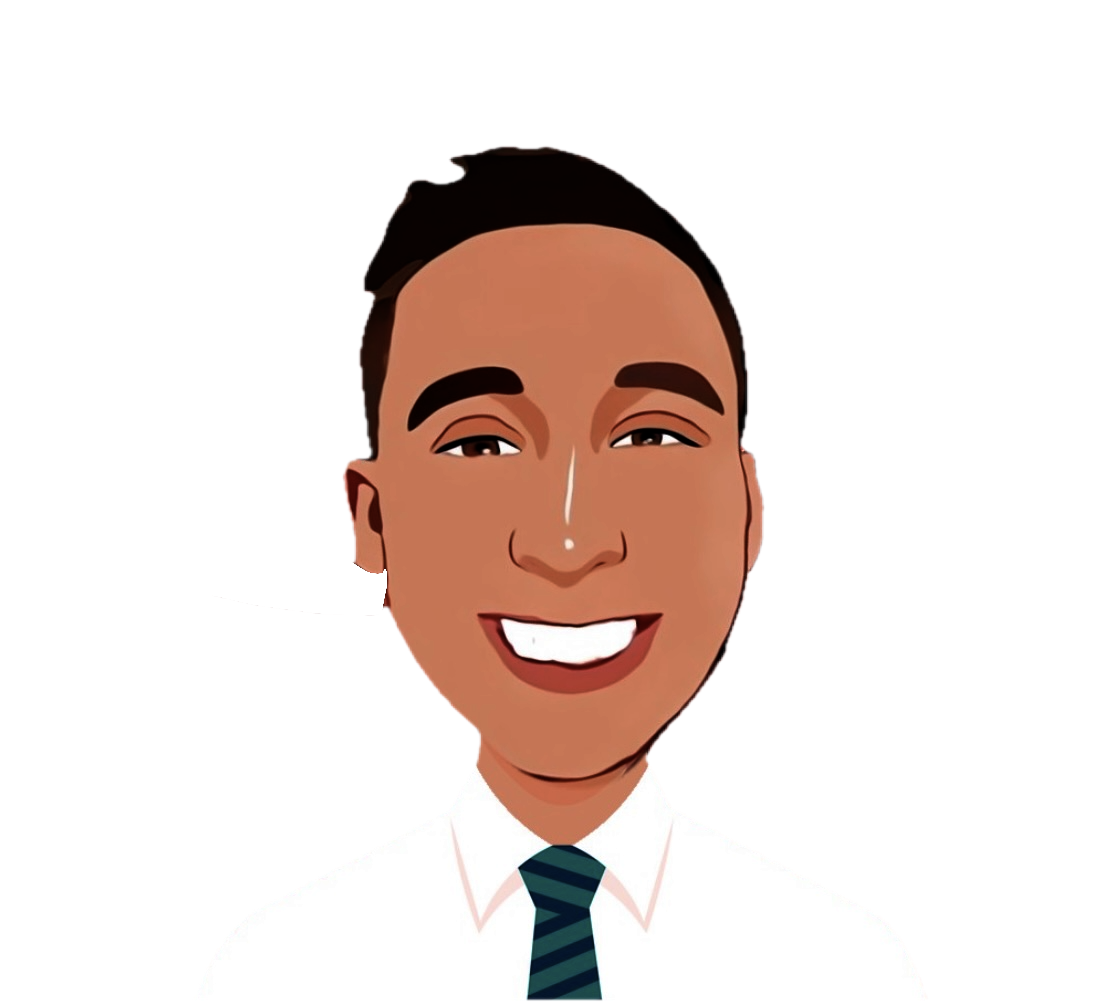
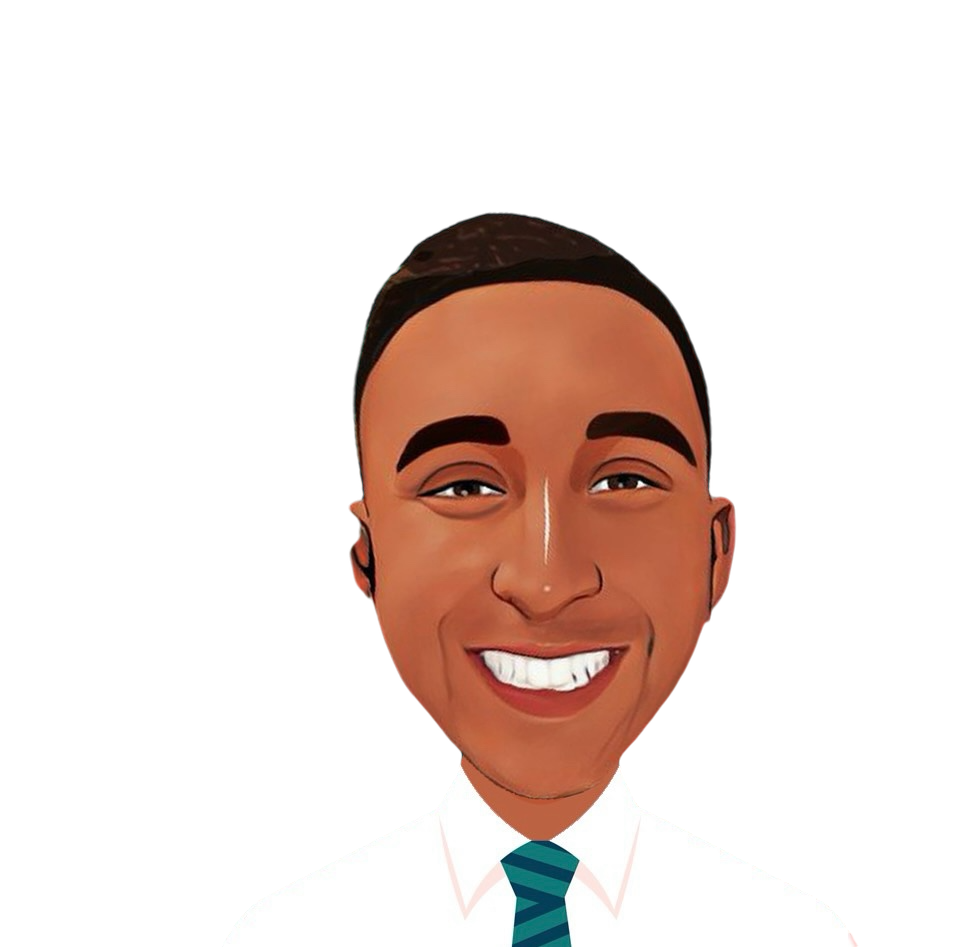
css update and about page

Changed region(s): [[0.3037, 0.1225, 0.7895, 1.0], [0.3948, 0.8268, 0.4251, 0.8881]]

diff --git a/assets/css/style.css b/assets/css/style.css
@@ -700,6 +700,13 @@ section {
   font-weight: 600;
   line-height: 1.2;
 }
+.cv_about_img img {
+  width: 90%;
+  max-width: 400px;
+  height: auto;
+  display: block;
+  margin: 0 auto;
+}
 
 .cv_about_info {
   max-width: 934px;
@@ -752,6 +759,27 @@ section {
   border: 1px solid #ff4343;
 }
 
+.cv_about_img {
+  opacity: 0;
+  transform: translateY(500px);
+  transition: opacity 2.5s ease, transform 2.5s ease;
+}
+
+.cv_about_img.appear {
+  opacity: 1;
+  transform: translateY(0);
+}
+
+.cv_about_box {
+  opacity: 0;
+  transform: translateY(50px);
+  transition: opacity 2.5s ease, transform 2.5s ease;
+}
+
+.cv_about_box.appear {
+  opacity: 1;
+  transform: translateY(0);
+}
 /********************************************************
     Education Section Style
 *******************************************************/

diff --git a/assets/js/custom.js b/assets/js/custom.js
@@ -133,3 +133,18 @@ document.addEventListener("DOMContentLoaded", function () {
 
   observer.observe(bannerImg);
 });
+document.addEventListener("DOMContentLoaded", function () {
+  const aboutImage = document.querySelector(".cv_about_img");
+  const aboutBox = document.querySelector(".cv_about_box");
+
+  const observer = new IntersectionObserver(function (entries) {
+    entries.forEach((entry) => {
+      if (entry.isIntersecting) {
+        entry.target.classList.add("appear");
+      }
+    });
+  });
+
+  observer.observe(aboutImage);
+  observer.observe(aboutBox);
+});

diff --git a/about.html b/about.html
@@ -18,7 +18,7 @@
     <title>À propos de Christophe Mostefaoui</title>
     <meta
       name="description"
-      content="Portfolio des projets de Christophe Mostefaoui, développeur web full stack en reconversion. Découvrez mes projets et compétences."
+      content="Portfolio des projets de Christophe Mostefaoui, développeur web. Découvrez mes projets et compétences."
     />
     <meta name="keywords" content="Christophe Mostefaoui, développeur web,
     portfolio, projets, compétences, front-end, back-end"s
